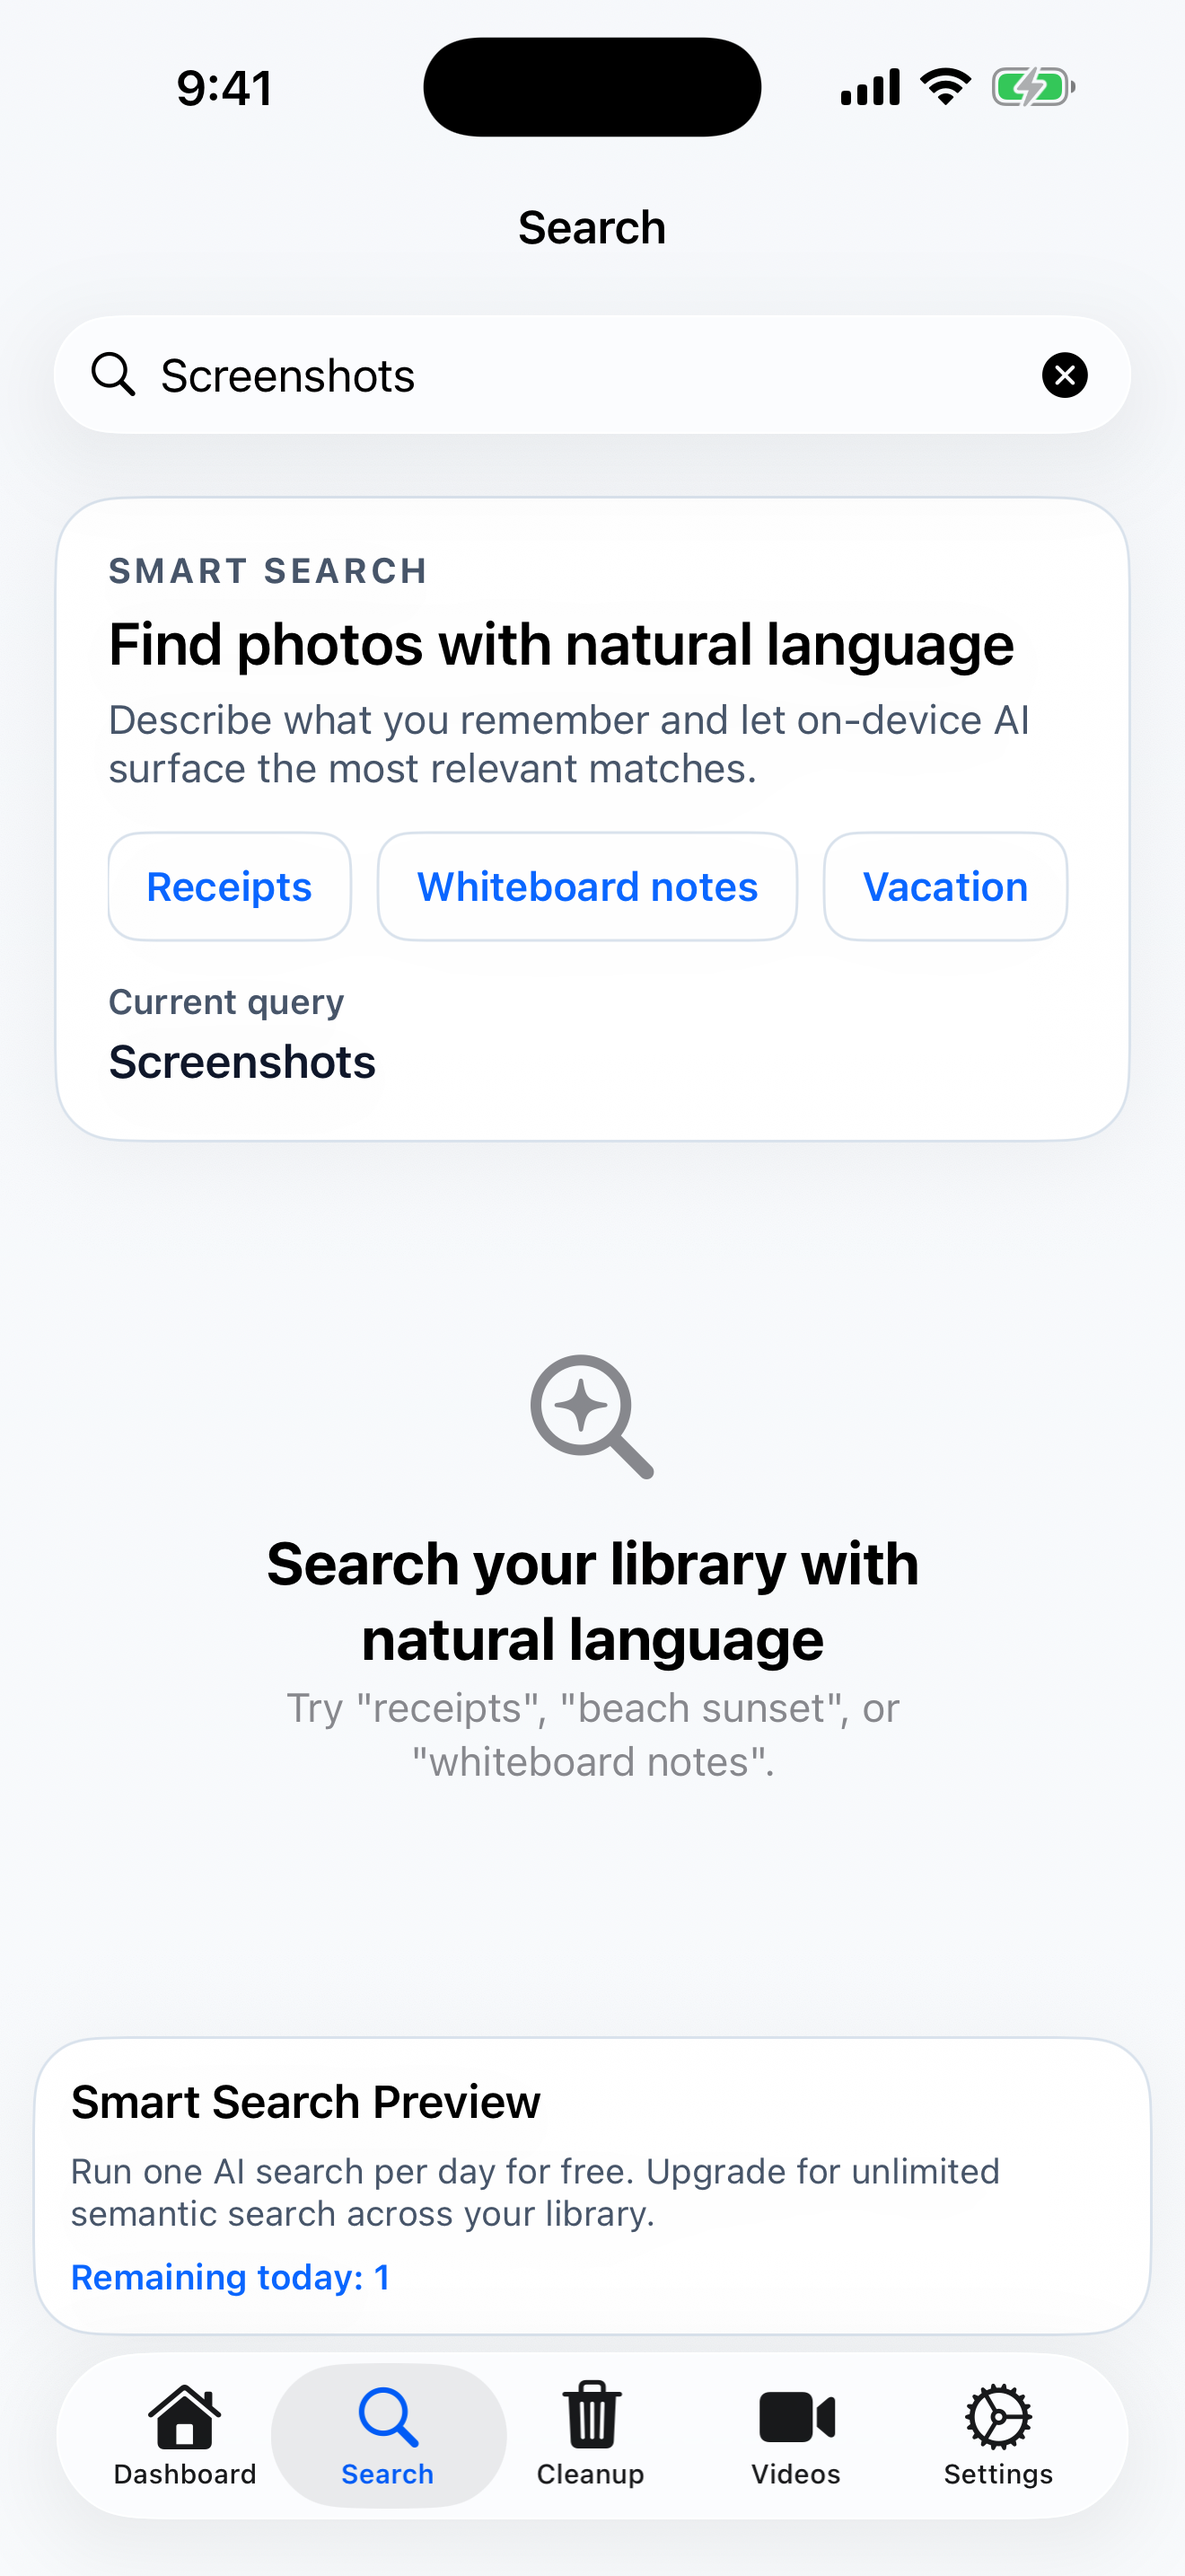
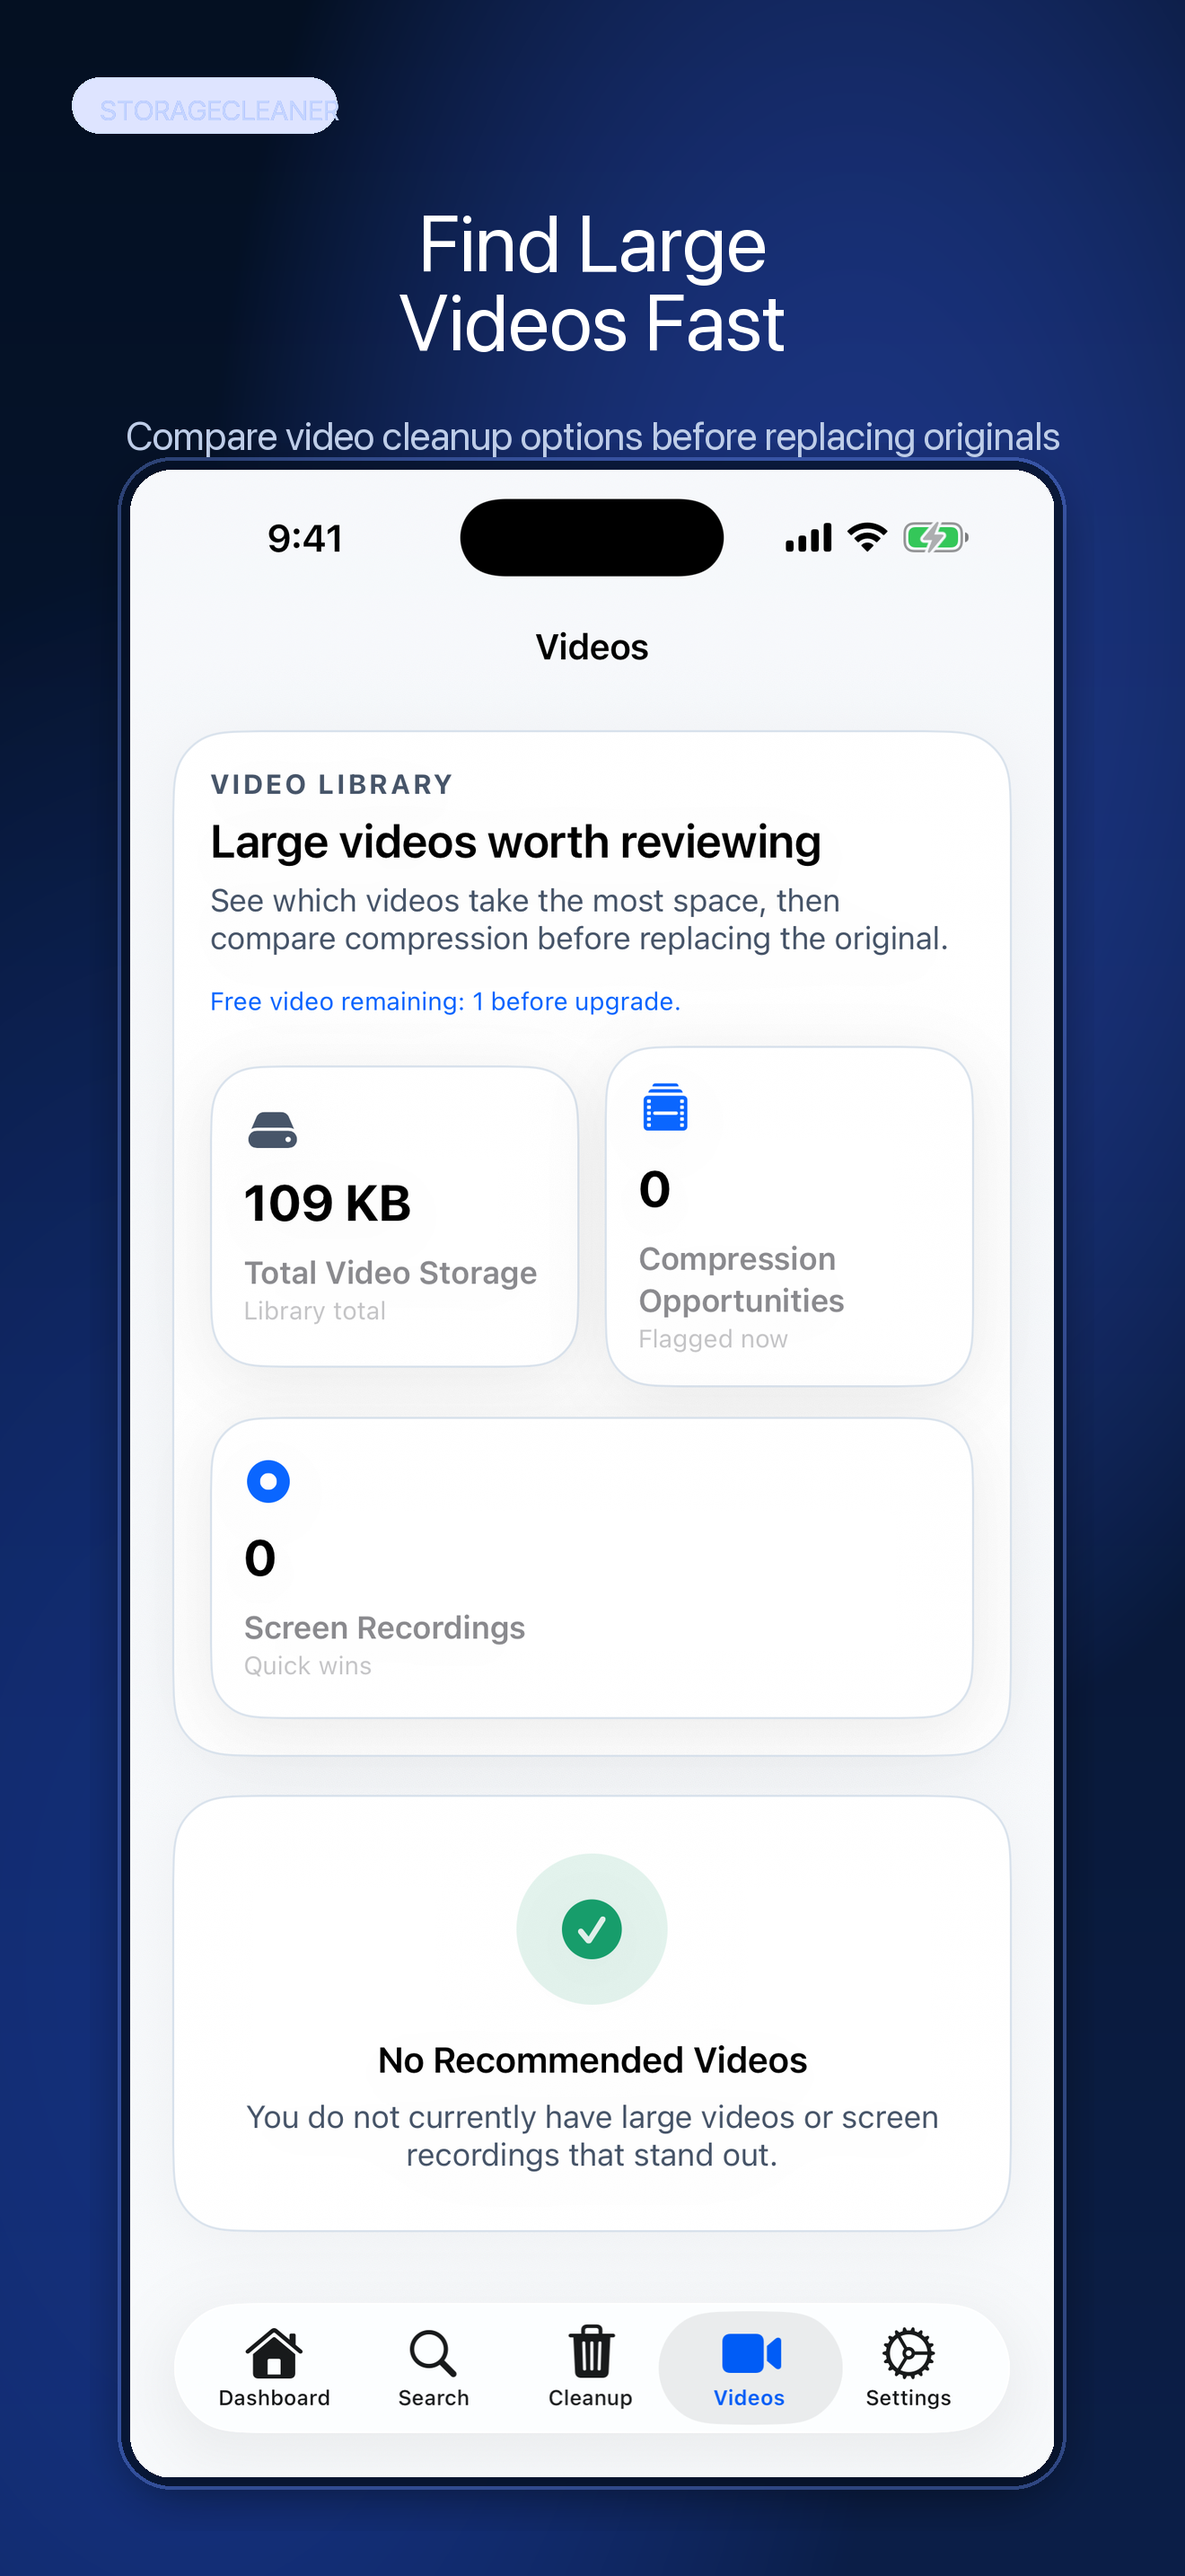
Refresh StorageCleaner site screenshots

diff --git a/index.html b/index.html
@@ -272,18 +272,19 @@
             height: 74%;
             border-radius: 42px;
             background:
-                radial-gradient(circle at top, rgba(10, 102, 255, 0.26), transparent 52%),
-                linear-gradient(180deg, rgba(255, 255, 255, 0.92), rgba(225, 236, 255, 0.64));
+                radial-gradient(circle at top, rgba(82, 124, 255, 0.28), transparent 52%),
+                radial-gradient(circle at 20% 80%, rgba(56, 189, 248, 0.16), transparent 48%),
+                linear-gradient(180deg, rgba(4, 16, 34, 0.96), rgba(13, 31, 70, 0.86));
             filter: blur(2px);
         }
 
         .phone-frame {
             position: relative;
-            background: rgba(255, 255, 255, 0.68);
-            border: 1px solid rgba(255, 255, 255, 0.84);
+            background: rgba(6, 18, 40, 0.72);
+            border: 1px solid rgba(129, 161, 255, 0.24);
             border-radius: 38px;
             padding: 14px;
-            box-shadow: var(--shadow-lg);
+            box-shadow: 0 30px 80px rgba(5, 15, 34, 0.32), 0 0 42px rgba(55, 101, 255, 0.16);
             backdrop-filter: blur(20px);
         }
 
@@ -404,8 +405,8 @@
         .shot-card img {
             width: 100%;
             border-radius: 26px;
-            background: #f4f7fb;
-            box-shadow: inset 0 0 0 1px rgba(148, 163, 184, 0.12);
+            background: #071429;
+            box-shadow: inset 0 0 0 1px rgba(125, 168, 255, 0.18);
         }
 
         .shot-card h3 {
@@ -1056,7 +1057,7 @@
                         <img src="./assets/screenshots/cleanup.png" alt="StorageCleaner cleanup review showing grouped suggestions">
                     </div>
                     <div class="phone-frame phone-cleanup">
-                        <img src="./assets/screenshots/cleanup.png" alt="StorageCleaner cleanup review showing duplicates and similar photos">
+                        <img src="./assets/screenshots/search.png" alt="StorageCleaner video review showing large video cleanup options">
                     </div>
                     <div class="floating-note">
                         <strong>Nothing is removed automatically.</strong>
@@ -1087,14 +1088,14 @@
                     <div class="proof-stack">
                         <article class="shot-card">
                             <img src="./assets/screenshots/cleanup.png" alt="Cleanup review screenshot with duplicates and similar photos" loading="lazy">
-                            <h3>Review suggestions before you delete.</h3>
-                            <p>Duplicates, similar photos, screenshots, and blurry shots are grouped into clear review flows.</p>
+                            <h3>Choose what stays before cleanup.</h3>
+                            <p>Similar photos are reviewed first so cleanup decisions stay visible and deliberate.</p>
                         </article>
 
                         <article class="shot-card">
-                            <img src="./assets/screenshots/cleanup.png" alt="Cleanup review screenshot showing grouped review flows" loading="lazy">
-                            <h3>Resume and review cleanup work safely.</h3>
-                            <p>The current update keeps cleanup focused on visible review states, saved scan progress, and clear recovery when long scans are interrupted.</p>
+                            <img src="./assets/screenshots/search.png" alt="Video cleanup screenshot with review-first compression guidance" loading="lazy">
+                            <h3>Large videos stay under control.</h3>
+                            <p>Review video storage and compression opportunities before replacing an original.</p>
                         </article>
                     </div>
                 </div>
